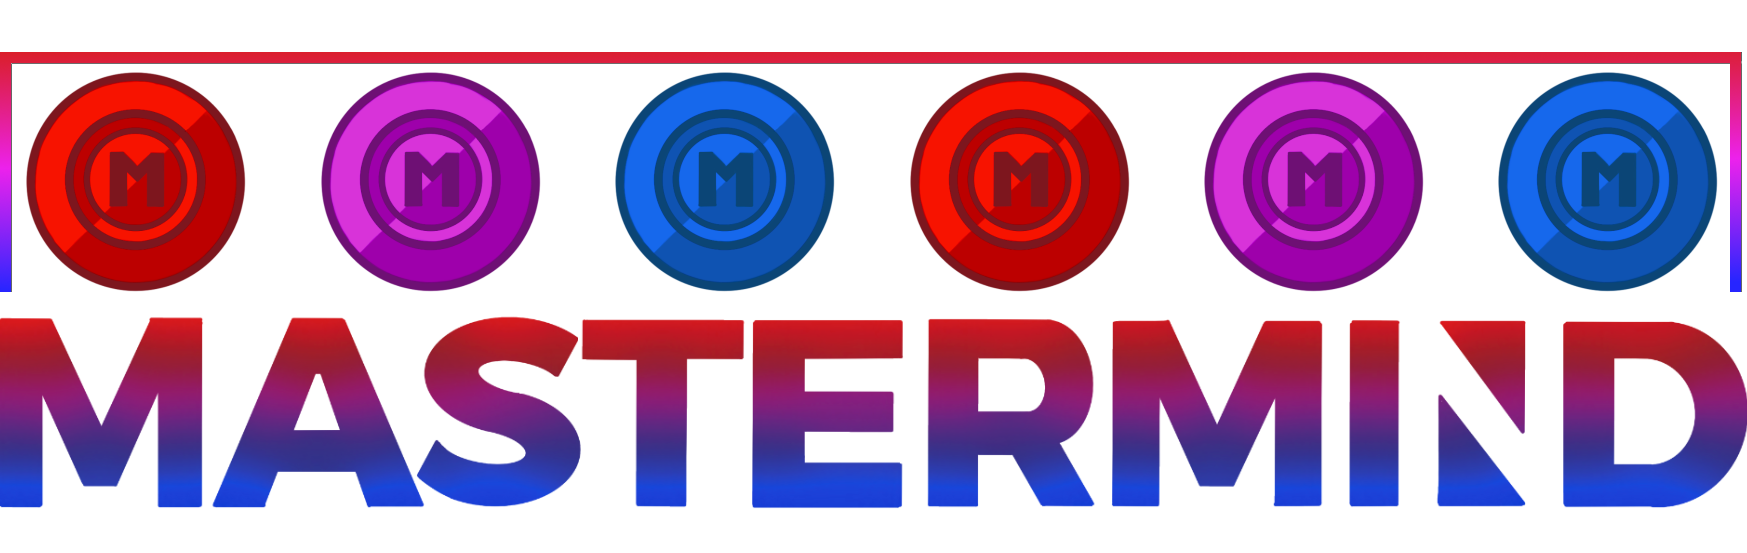
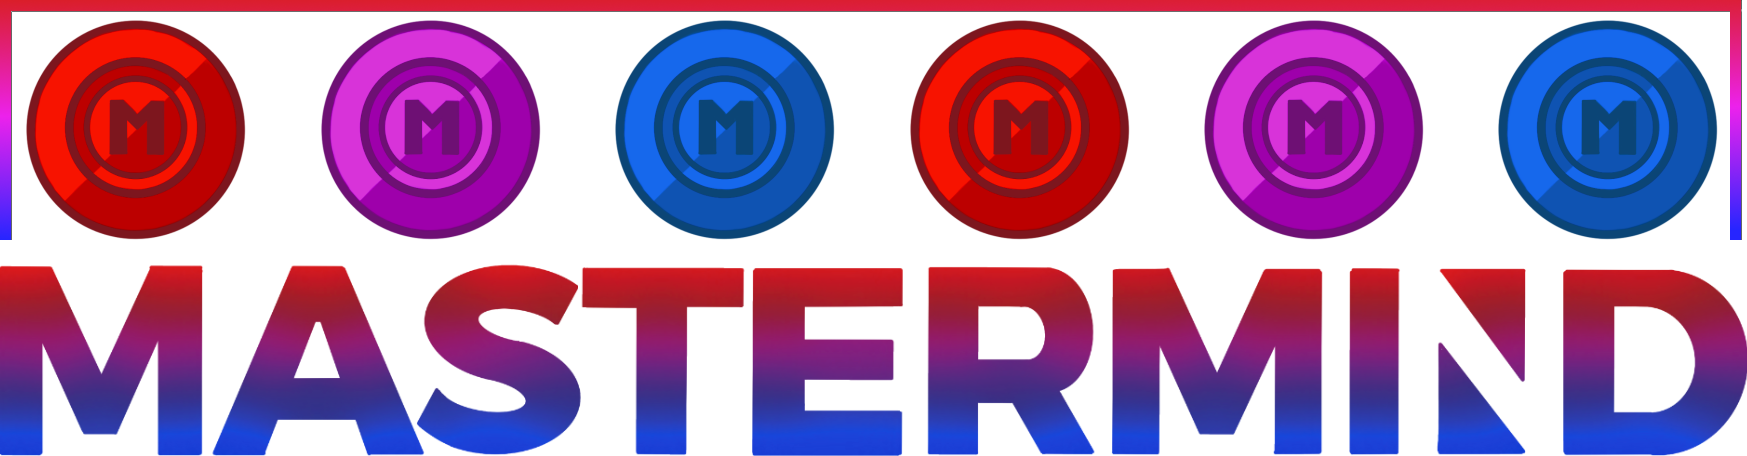
05-Bootstrap: Rework index page and alignment

diff --git a/app/assets/stylesheets/index.css b/app/assets/stylesheets/index.css
@@ -18,11 +18,12 @@ body {
 
 
 /*/* Apply settings so image is centered */
-img {
+.header-img {
   display: block;
   margin-left: auto;
   margin-right: auto;
   width: 80%;
+  margin-top: 20px;
 }
 
 /* Navbar padding */
@@ -38,6 +39,34 @@ img {
 
   border: none;
   background-color: transparent;
+}
+
+.offcanvas-header{
+  background: linear-gradient(to bottom, red, rgb(56, 56, 252)); /* Apply linear gradient to the text color */
+  -webkit-background-clip: text; /* Set the background clip to text for webkit browsers */
+  -webkit-text-fill-color: transparent; /* Set the text fill color to transparent for webkit browsers */
+}
+
+.nav-link {
+  color: aliceblue !important;
+}
+
+.nav-icon{
+  width: 30px;
+  height: 30px;
+  margin-left: 10px;
+  display: inline-block;
+  margin-right: 10px;
+}
+
+.nav-link:hover {
+  background: linear-gradient(to bottom, red, rgb(56, 56, 252)); /* Apply linear gradient to the text color */
+  -webkit-background-clip: text; /* Set the background clip to text for webkit browsers */
+  -webkit-text-fill-color: transparent; /* Set the text fill color to transparent for webkit browsers */
+}
+
+.offcanvas {
+  background-color: rgba(41, 41, 41, 0.8); /* black with 80% opacity */
 }
 /*
 /*.button-container {

diff --git a/app/views/index.scala.html b/app/views/index.scala.html
@@ -32,13 +32,22 @@
     <div class="offcanvas-body">
       <ul class="navbar-nav">
         <li class="nav-item">
-          <a class="nav-link text-dark" href="@routes.HomeController.displayGame()">Play</a>
+          <a class="nav-link text-dark" href="@routes.HomeController.displayGame()">
+            <img src="@routes.Assets.versioned("images/stones/stone_R.png")" class="nav-icon">
+            Play
+          </a>
         </li>
         <li class="nav-item">
-          <a class="nav-link text-dark" href="@routes.HomeController.help()">Help</a>
+          <a class="nav-link text-dark" href="@routes.HomeController.help()">
+            <img src="@routes.Assets.versioned("images/stones/stone_P.png")" class="nav-icon">
+            Help
+          </a>
         </li>
         <li class="nav-item">
-          <a class="nav-link text-dark" href="@routes.HomeController.about()">About</a>
+          <a class="nav-link text-dark" href="@routes.HomeController.about()">
+            <img src="@routes.Assets.versioned("images/stones/stone_B.png")" class="nav-icon">
+            About
+          </a>
         </li>
       </ul>
     </div>
